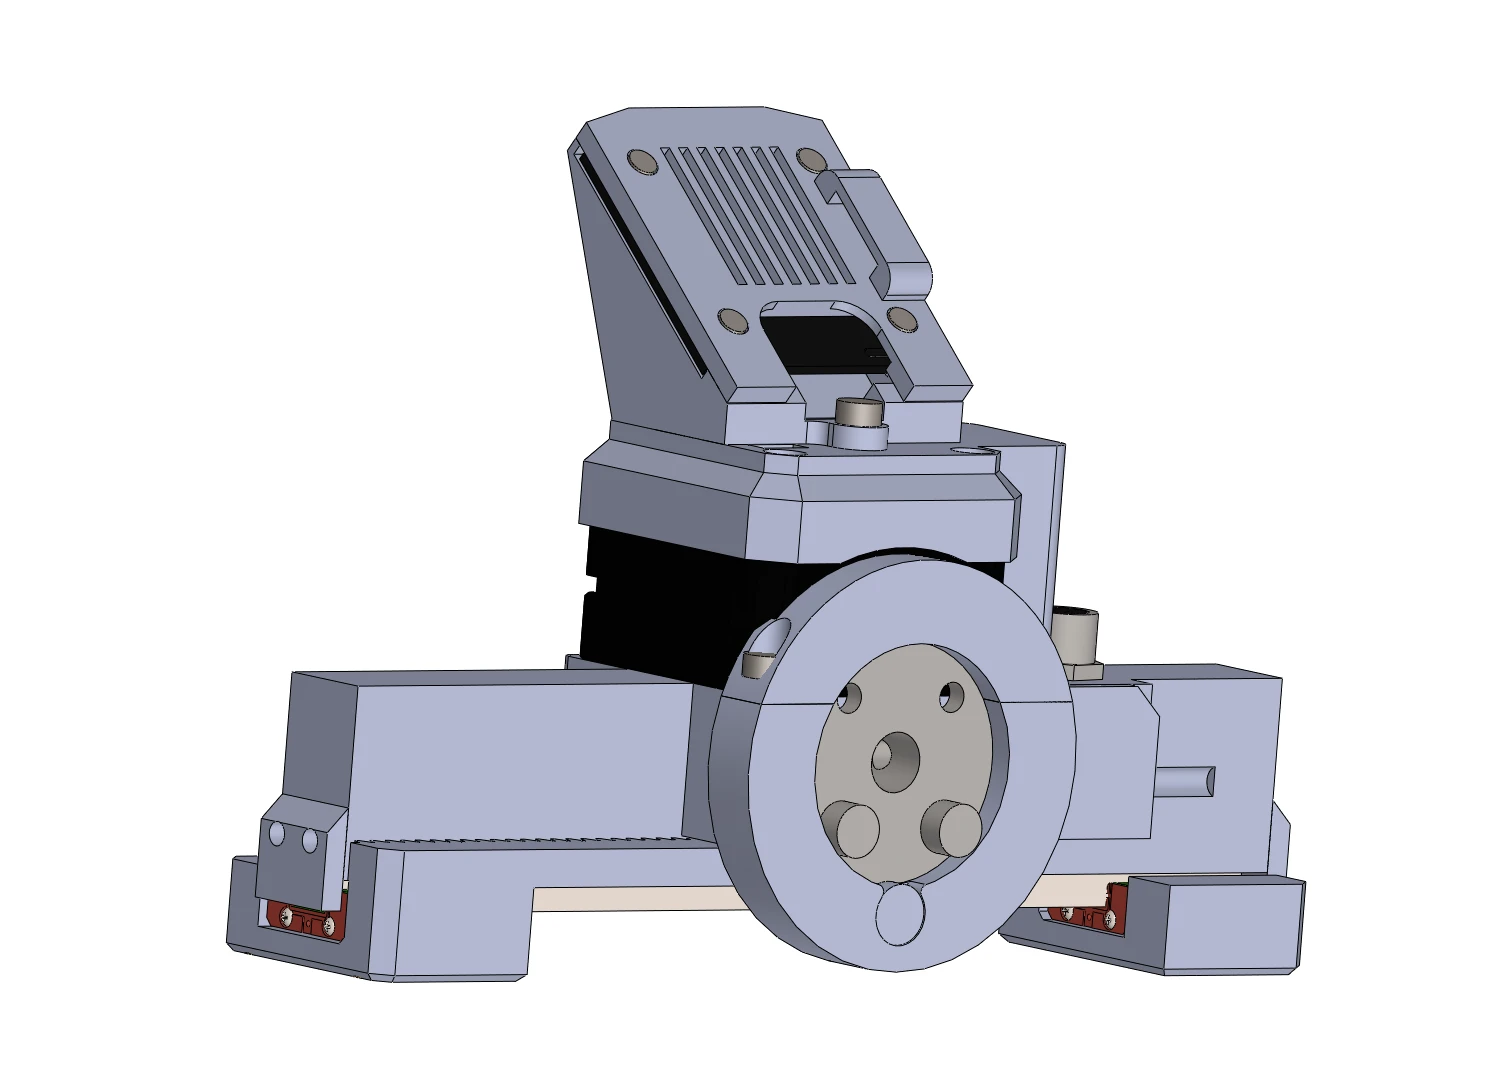
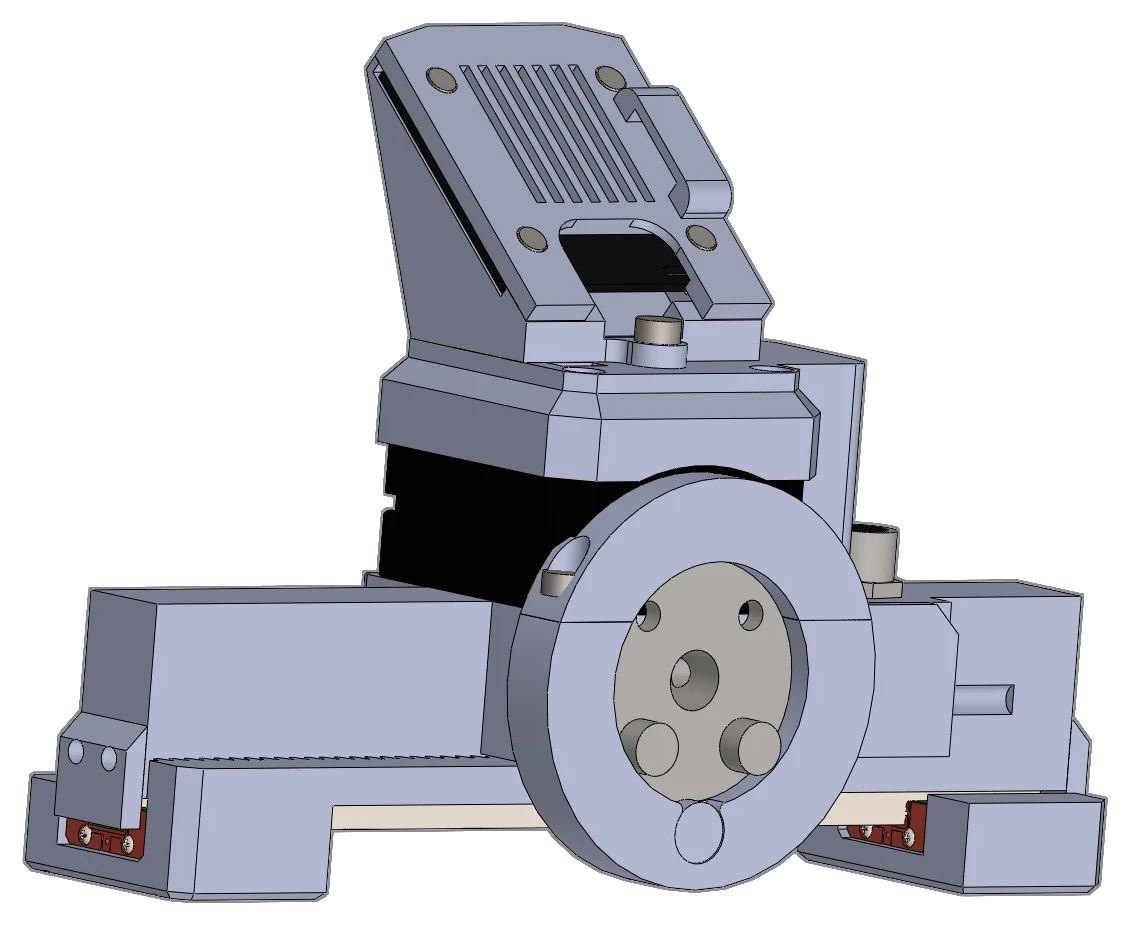
Pictures without their backgrounds: the termination photo, the connector view, the coupler and ring cover
The owner's review of 2026-11-11: figures 2 and 4.8 (the termination switch, one photo cut off its grey table, now
a light and dark pair in WebP instead of the JPEG), 3.2 (the connector on the gripper body), 4.1 and 4.2 (the
coupler plate and the PAROL6 ring cover) cut out of their white backgrounds, each with a light and a dark version.

diff --git a/docs/04-installation/mounting.md b/docs/04-installation/mounting.md
@@ -9,7 +9,8 @@ As shipped, the coupler plate carries a shaft coupler with an 8 mm bore and M4 c
 part: the gripper slides onto an 8 mm shaft and is clamped with the two M4 screws. Any robot or fixture that
 offers an 8 mm shaft takes the gripper this way.
 
-![The coupler plate with the 8 mm shaft coupler](../assets/MSG_conn_8mm.webp){ width="600" }
+![The coupler plate with the 8 mm shaft coupler](../assets/MSG_conn_8mm.webp#only-light){ width="600" }
+![The coupler plate with the 8 mm shaft coupler](../assets/MSG_conn_8mm_dark.webp#only-dark){ width="600" }
 
 ## PAROL6
 
@@ -21,7 +22,8 @@ For the PAROL6 wrist:
 3. Run the PAROL6 gripper cable from the gripper to the robot's gripper port; see [The cable](cable.md) and
    [On PAROL6 and PAR6](../06-operation/robots.md), which also has the joint 5 homing offset.
 
-![The gripper with the PAROL6 ring cover (red)](../assets/MSG_with_parol_cover.webp){ width="600" }
+![The gripper with the PAROL6 ring cover (red)](../assets/MSG_with_parol_cover.webp#only-light){ width="600" }
+![The gripper with the PAROL6 ring cover (red)](../assets/MSG_with_parol_cover_dark.webp#only-dark){ width="600" }
 
 ## Another robot
 

diff --git a/docs/quick-start.md b/docs/quick-start.md
@@ -50,7 +50,8 @@ More: the [What you need](01-overview/what-you-need.md) page lists the parts.
 
 4. Set the gripper's CAN termination ON for this two-node bench bus; the CANvas adapter provides the other end.
 
-    ![The termination switch of the driver, seen through the stepper cover](assets/Gripper_termination.jpg){ width="520" }
+    ![The termination switch of the driver, seen through the stepper cover](assets/Gripper_termination.webp#only-light){ width="520" }
+    ![The termination switch of the driver, seen through the stepper cover](assets/Gripper_termination_dark.webp#only-dark){ width="520" }
 
 5. Leave the gripper at its shipped node ID, **0**, unless you already assigned another.
 

diff --git a/docs/04-installation/can-termination.md b/docs/04-installation/can-termination.md
@@ -4,7 +4,8 @@ A CAN bus needs a 120 Ω resistor at each of its two ends. The gripper's driver 
 reachable through an opening in the stepper cover: slide it to the **ON** mark to connect the resistor, away from
 it to disconnect it.
 
-![The termination switch of the driver, seen through the stepper cover](../assets/Gripper_termination.jpg){ width="700" }
+![The termination switch of the driver, seen through the stepper cover](../assets/Gripper_termination.webp#only-light){ width="700" }
+![The termination switch of the driver, seen through the stepper cover](../assets/Gripper_termination_dark.webp#only-dark){ width="700" }
 
 | The gripper is | Switch |
 |---|---|

diff --git a/docs/03-technical-data/connector.md b/docs/03-technical-data/connector.md
@@ -2,7 +2,8 @@
 
 The gripper has one connector, an M8 4-pin male on the side of the body, and one cable: 24 V and the CAN bus.
 
-![The M8 connector on the gripper body and its four signals: 24V, GND, CANH, CANL](../assets/MSG_pinout.webp){ width="900" }
+![The M8 connector on the gripper body and its four signals: 24V, GND, CANH, CANL](../assets/MSG_pinout.webp#only-light){ width="900" }
+![The M8 connector on the gripper body and its four signals: 24V, GND, CANH, CANL](../assets/MSG_pinout_dark.webp#only-dark){ width="900" }
 
 ## Pin numbers
 
